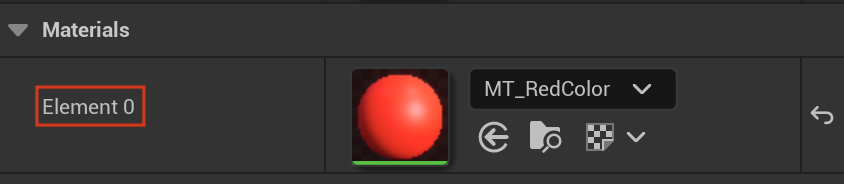
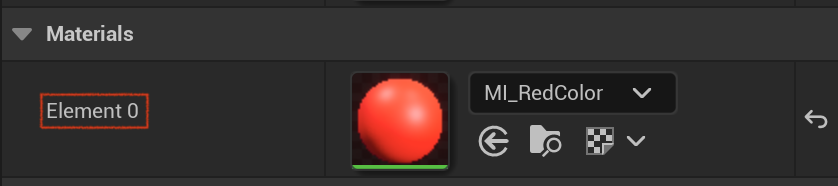
docs: 提交补给基类、生命补给和弹药补给

diff --git a/content/docs/虚幻引擎/进阶课程/补给/补给基类、生命补给和弹药补给.md b/content/docs/虚幻引擎/进阶课程/补给/补给基类、生命补给和弹药补给.md
@@ -1,0 +1,258 @@
+---
+title: "补给基类、生命补给和弹药补给"
+date: 2023-10-11T12:15:48
+lastmod: 2023-10-11T12:21:42+08:00
+draft: false
+weight: 2002
+---
+
+## 为地板和楼梯添加材质 {#为地板和楼梯添加材质}
+
+
+### 从ShooterGame导出材质 {#从shootergame导出材质}
+
+`Content/Environment/Materials` <br/>
+
+| -                   |    |
+|---------------------|----|
+| M_FFA_Floor_02_Dark | 地板 |
+| M_FFA_Wall_04       | 楼梯 |
+
+<img src="/pic/补给/补给基类、生命补给和弹药补给/floor-stair.png" width="800" /> <br/> <br/>
+
+导出 <br/>
+
+<img src="/pic/补给/补给基类、生命补给和弹药补给/migrate.png" width="1000" /> <br/> <br/>
+
+相关资产 <br/>
+
+<img src="/pic/补给/补给基类、生命补给和弹药补给/assets.png" width="600" /> <br/> <br/>
+
+
+### 导入到ShootThemUp {#导入到shootthemup}
+
+创建文件夹 `Content/ExternalContent/Pickup` , 保存到此处 <br/>
+
+<img src="/pic/补给/补给基类、生命补给和弹药补给/pickups.png" width="300" /> <br/> <br/>
+
+
+### 设置地板 {#设置地板}
+
+-   应用材质 <br/>
+    
+    <img src="/pic/补给/补给基类、生命补给和弹药补给/floor-material.png" width="400" /> <br/> <br/>
+-   设置变换 <br/>
+    
+    <img src="/pic/补给/补给基类、生命补给和弹药补给/floor-scale.png" width="400" /> <br/> <br/>
+
+
+### 设置楼梯 {#设置楼梯}
+
+-   移除楼梯 <br/>
+-   添加楼梯 <br/>
+    `Place Actors > Geometry > Box` <br/>
+-   设置纹理 <br/>
+    
+    <img src="/pic/补给/补给基类、生命补给和弹药补给/stair-material.png" width="400" /> <br/> <br/>
+-   设置变换 <br/>
+    
+    <img src="/pic/补给/补给基类、生命补给和弹药补给/stair-scale.png" width="400" /> <br/> <br/>
+-   设置规格 <br/>
+    
+    <img src="/pic/补给/补给基类、生命补给和弹药补给/stair-brush.png" width="400" /> <br/> <br/>
+-   一共四级台阶 <br/>
+    按下Option键, 延Z轴拖动台阶; Z方向按80递增, X方向按250递增 <br/>
+    
+    <img src="/pic/补给/补给基类、生命补给和弹药补给/stairs.png" width="800" /> <br/> <br/>
+
+
+## 创建所需静态网格体和材质 {#创建所需静态网格体和材质}
+
+
+### 创建材质类 {#创建材质类}
+
+`Content/Materials` <br/>
+创建材质, 命名为M_BaseGlow <br/>
+
+<img src="/pic/补给/补给基类、生命补给和弹药补给/create-material.png" width="600" /> <br/> <br/>
+
+两个参数: Color和Glow <br/>
+发光参数默认值设为10 <br/>
+
+<img src="/pic/补给/补给基类、生命补给和弹药补给/M_BaseGlow.png" width="800" /> <br/> <br/>
+
+创建材质实例 <br/>
+
+<img src="/pic/补给/补给基类、生命补给和弹药补给/create-mi.png" width="600" /> <br/> <br/>
+
+MI_BlueGlow <br/>
+
+<img src="/pic/补给/补给基类、生命补给和弹药补给/mi-blue.png" width="600" /> <br/> <br/>
+
+MI_GreenGlow <br/>
+
+<img src="/pic/补给/补给基类、生命补给和弹药补给/mi-green.png" width="600" /> <br/> <br/>
+
+如图 <br/>
+
+<img src="/pic/补给/补给基类、生命补给和弹药补给/new-create-m-mi.png" width="800" /> <br/> <br/>
+
+
+### 创建静态网格体 {#创建静态网格体}
+
+新建文件夹 `Content/Pickups/StaticMeshes` <br/>
+
+
+#### 创建生命补给 {#创建生命补给}
+
+-   `Place Actors > Geometry > Box` , 添加 <br/>
+-   设置 `Details > Brush Settings` , X = 40, Y = 80, Z = 40 <br/>
+    
+    <img src="/pic/补给/补给基类、生命补给和弹药补给/health-set.png" width="500" /> <br/> <br/>
+-   按下E, 切换到旋转模式 <br/>
+-   按下Option, 绕X轴旋转90渡 <br/>
+-   按下Command, 选中两个笔刷 `Brush` , `Details > Brush Settings > Create Static Mesh` <br/>
+    
+    <img src="/pic/补给/补给基类、生命补给和弹药补给/create-static-mesh-health.png" width="1000" /> <br/> <br/>
+-   保存到 `Content/Pickups/StaticMeshes` , 命名为S_Health <br/>
+    
+    <img src="/pic/补给/补给基类、生命补给和弹药补给/sm-health.png" width="400" /> <br/> <br/>
+-   双击打开, 应用材质 <br/>
+    
+    <img src="/pic/补给/补给基类、生命补给和弹药补给/sm-health-m.png" width="1200" /> <br/> <br/>
+
+
+#### 创建弹药补给 {#创建弹药补给}
+
+-   `Place Actors > Geometry > Cylinder` , 添加 <br/>
+    设置基准 `Transform > Location` : X = 1000, Y = 2000, Z = 50 <br/>
+    圆柱有三个参数, 高度, 半径和分片 <br/>
+    
+    <img src="/pic/补给/补给基类、生命补给和弹药补给/cylinder1.png" width="800" /> <br/> <br/>
+-   按下Option, 向上拖动, 设置参数 <br/>
+    
+    <img src="/pic/补给/补给基类、生命补给和弹药补给/cylinder2.png" width="800" /> <br/> <br/>
+-   按下Option, 向上拖动, 设置参数 <br/>
+    
+    <img src="/pic/补给/补给基类、生命补给和弹药补给/cylinder3.png" width="800" /> <br/> <br/>
+-   `Place Actors > Geometry > Sphere` , 添加 <br/>
+    球体有两个参数, 半径和细分 <br/>
+    
+    <img src="/pic/补给/补给基类、生命补给和弹药补给/sphere.png" width="800" /> <br/> <br/>
+-   按下Command, 选中三个圆柱和球体, 拖动, 二者间隔50 <br/>
+    
+    <img src="/pic/补给/补给基类、生命补给和弹药补给/rocket-double.png" width="800" /> <br/> <br/>
+-   选中6个圆柱体, 2个球体, `Details > Brush Settings > Create Static Mesh` <br/>
+    
+    <img src="/pic/补给/补给基类、生命补给和弹药补给/6+2.png" width="800" /> <br/> <br/>
+-   命名为S_Rockets <br/>
+    
+    <img src="/pic/补给/补给基类、生命补给和弹药补给/s-rockets.png" width="500" /> <br/> <br/>
+-   应用材质 <br/>
+    
+    <img src="/pic/补给/补给基类、生命补给和弹药补给/s-rockets-m.png" width="1000" /> <br/> <br/>
+
+
+## 创建补给类 {#创建补给类}
+
+|                 | 基类          | 上级文件夹 | 属性   |
+|-----------------|-------------|-------|------|
+| STUBasePickup   | Actor         | Pickups | Public |
+| STUAmmoPickup   | STUBasePickup |         |        |
+| STUHealthPickup | STUBasePickup |         |        |
+
+-   创建派生类 <br/>
+    `C++ Classes > ShootThemUp > Public > Pickups > STUBasePickup` <br/>
+    
+    <img src="/pic/补给/补给基类、生命补给和弹药补给/create-derived.png" width="700" /> <br/> <br/>
+-   添加头文件搜索路径 <br/>
+    `ShootThemUp: ShootThemUp.Build.cs` <br/>
+    ```cpp
+    PublicIncludePaths.AddRange(new string[]
+    {
+        "ShootThemUp/Public/Player",
+        "ShootThemUp/Public/Components",
+        "ShootThemUp/Public/Dev",
+        "ShootThemUp/Public/Weapon",
+        "ShootThemUp/Public/UI",
+        "ShootThemUp/Public/Animations",
+        "ShootThemUp/Public/Pickups"
+    });
+    ```
+
+
+## 补给基类 {#补给基类}
+
+`STUBasePickup` <br/>
+添加碰撞组件 <br/>
+`ShootThemUp: Pickups/STUBasePickup.h` <br/>
+`protected` <br/>
+
+```cpp
+class USphereComponent;
+
+UPROPERTY(VisibleAnywhere)
+USphereComponent *CollisionComponent;
+```
+
+触发重叠事件 <br/>
+`ShootThemUp: Pickups/STUBasePickup.cpp` <br/>
+
+```cpp
+#include "Components/SphereComponent.h"
+
+DEFINE_LOG_CATEGORY_STATIC(LogBasePickup, All, All);
+
+// Constructor
+CollisionComponent = CreateDefaultSubobject<USphereComponent>("SphereComponent");
+CollisionComponent->InitSphereRadius(50.0f);
+CollisionComponent->SetCollisionEnabled(ECollisionEnabled::QueryOnly);
+CollisionComponent->SetCollisionResponseToAllChannels(ECollisionResponse::ECR_Overlap);    
+SetRootComponent(CollisionComponent);
+```
+
+覆写NotifyActorBeginOverlap函数, 发生重叠事件时调用 <br/>
+`ShootThemUp: Pickups/STUBasePickup.h` <br/>
+`protected` <br/>
+
+```cpp
+virtual void NotifyActorBeginOverlap(AActor *OtherActor) override;
+```
+
+重叠后销毁Actor <br/>
+`ShootThemUp: Pickups/STUBasePickup.cpp` <br/>
+
+```cpp
+void ASTUBasePickup::NotifyActorBeginOverlap(AActor *OtherActor)
+{
+    Super::NotifyActorBeginOverlap(OtherActor);
+    UE_LOG(LogBasePickup, Display, TEXT("Pickups was taken"));
+    Destroy();
+}
+```
+
+
+## 创建蓝图类 {#创建蓝图类}
+
+-   创建基于STUAmmoPickup和STUHealthPickup的蓝图类, 保存到 `Content/Pickups` <br/>
+-   为蓝图类添加静态网格体组件, 绑定 `Content/Pickups/StaticMeshes` 下的静态网格体 <br/>
+    
+    <img src="/pic/补给/补给基类、生命补给和弹药补给/add-sm.png" width="300" /> <br/> <br/>
+
+弹药补给 <br/>
+
+<img src="/pic/补给/补给基类、生命补给和弹药补给/ammo.png" width="1000" /> <br/> <br/>
+
+生命补给 <br/>
+
+<img src="/pic/补给/补给基类、生命补给和弹药补给/health.png" width="1000" /> <br/> <br/>
+
+
+## 查看 {#查看}
+
+<img src="/pic/补给/补给基类、生命补给和弹药补给/result1.png" width="1000" /> <br/> <br/>
+
+日志 <br/>
+
+<img src="/pic/补给/补给基类、生命补给和弹药补给/日志.png" width="1000" /> <br/> <br/>
+

diff --git a/content/docs/虚幻引擎/进阶课程/武器/榴弹类.md b/content/docs/虚幻引擎/进阶课程/武器/榴弹类.md
@@ -1,7 +1,7 @@
 ---
 title: "榴弹类"
 date: 2023-08-22T19:48:41
-lastmod: 2023-08-22T20:06:13+08:00
+lastmod: 2023-10-11T09:00:48+08:00
 draft: false
 weight: 2013
 ---
@@ -230,12 +230,12 @@ void ASTULauncherWeapon::MakeShot()
 1.  选中M_BaseColor, 右键 <br/>
     
     <img src="/pic/武器/榴弹类/CreateMI.png" width="500" /> <br/> <br/>
-2.  命名为MT_RedColor <br/>
+2.  命名为MI_RedColor <br/>
 
 
 ### 配置材质实例类 {#配置材质实例类}
 
-1.  双击打开MT_RedColor <br/>
+1.  双击打开MI_RedColor <br/>
 2.  在细节面板勾选Color参数 <br/>
     
     <img src="/pic/武器/榴弹类/MIColor.png" width="500" /> <br/> <br/>

diff --git a/content/docs/虚幻引擎/进阶课程/虚幻运动图表/重构和打包.md b/content/docs/虚幻引擎/进阶课程/虚幻运动图表/重构和打包.md
@@ -1,7 +1,7 @@
 ---
 title: "重构和打包"
 date: 2023-10-09T04:19:50
-lastmod: 2023-10-09T04:19:52+08:00
+lastmod: 2023-10-11T07:24:15+08:00
 draft: false
 weight: 2007
 ---
@@ -57,7 +57,7 @@ const auto WeaponComponent = STUUtils::GetSTUPlayerComponent<USTUWeaponComponent
 定义 <br/>
 
 `ShootThemUp: UI/STUPlayerHUDWidget.h` <br/>
-屏蔽USTUWeaponCOmponent和USTUHealthComponent的前向声明 <br/>
+屏蔽USTUWeaponComponent和USTUHealthComponent的前向声明 <br/>
 屏蔽GetWeaponComponent和GetHealthComponent <br/>
 
 

diff --git a/content/docs/虚幻引擎/进阶课程/补给/_index.md b/content/docs/虚幻引擎/进阶课程/补给/_index.md
@@ -1,0 +1,7 @@
+---
+title: "补给"
+date: 2023-10-11T12:18:41
+lastmod: 2023-10-11T12:18:46+08:00
+draft: false
+weight: 4006
+---
